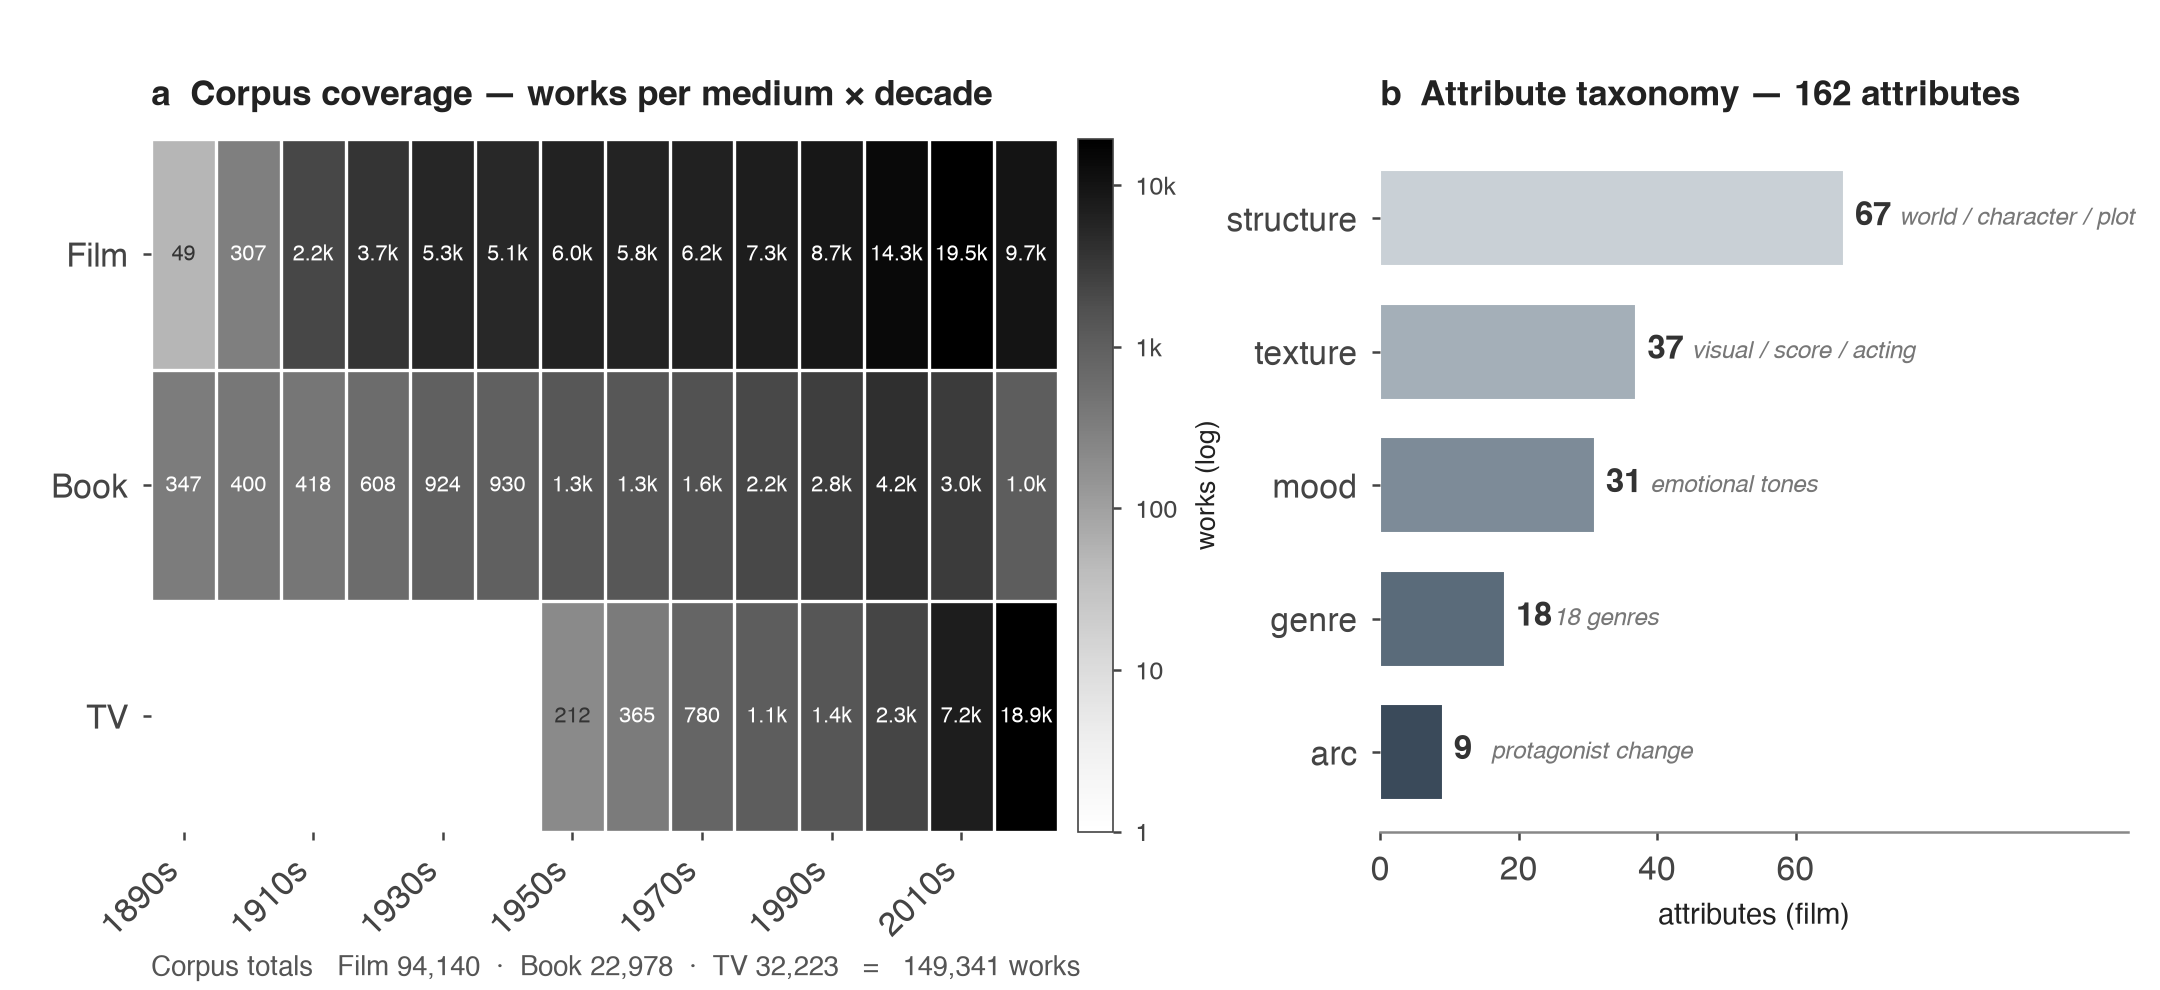
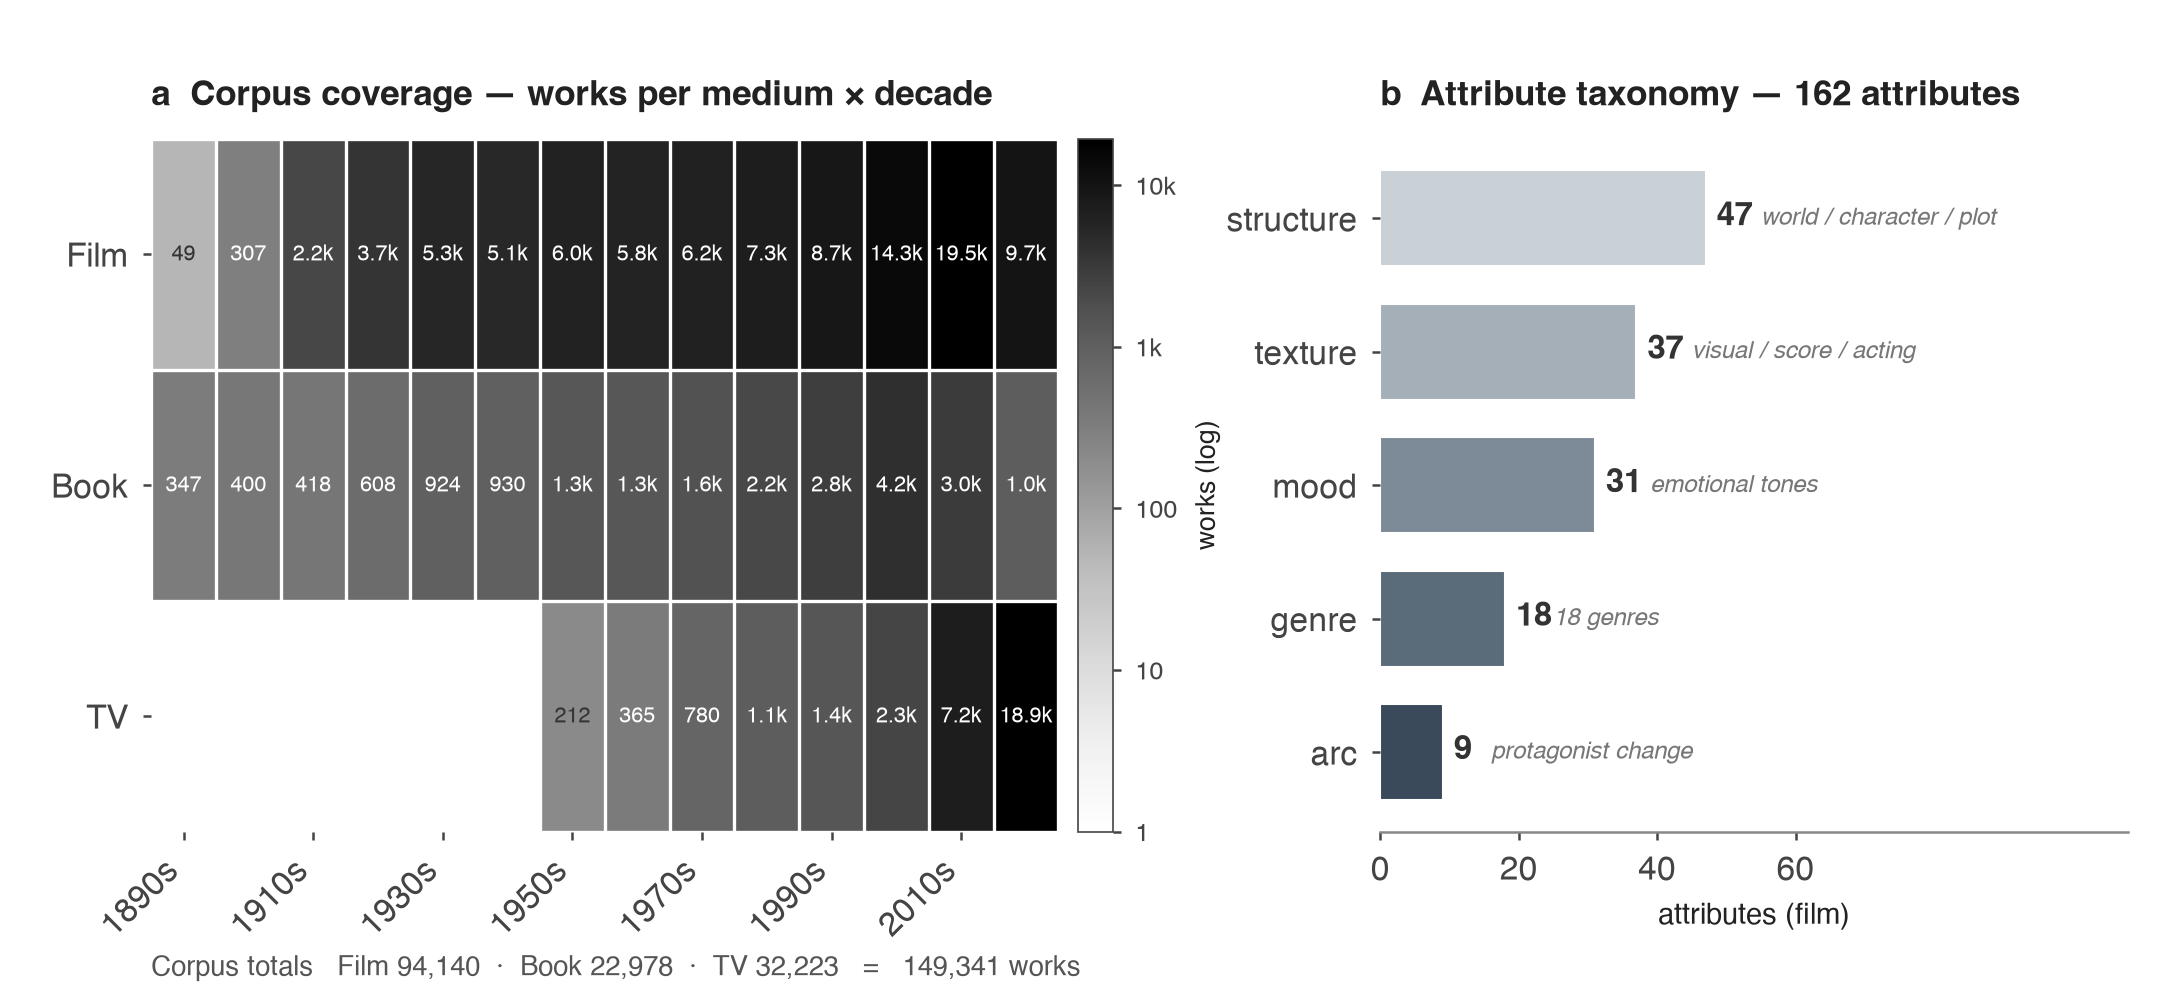
De-duplicate structure layer: drop redundant plot-predicted prompt variants
19 structural concepts were deployed under two prompt wordings (a direct survey
question and a plot-predicted variant), inflating the attribute count. Keep the
direct scoring per concept, drop the redundant variant. Atlas 168->147 cols
(film/tv); codebook 162->142 rows; validated 148->130 (structure 67/59->47/41).
Results unchanged (reproduce.py 99/99); only counts move. Figures + docs updated.

Changed region(s): [[0.7755, 0.1515, 0.9926, 0.2727]]

diff --git a/code/figures/build_fig_f1.py b/code/figures/build_fig_f1.py
@@ -10,9 +10,9 @@ import matplotlib.pyplot as plt
 from matplotlib.patches import Patch
 from pathlib import Path
 
-ROOT = Path.cwd()
+ROOT = Path.home() / "uoft" / "style_evolves"
 DATA = ROOT / "data" / "atlas"
-OUT  = ROOT / "outputs" / "figures"
+OUT  = ROOT / "results" / "figures_certified"
 OUT.mkdir(parents=True, exist_ok=True)
 
 MEDIA = ["film", "book", "tv"]
@@ -36,7 +36,7 @@ cov = pivot.reindex(decades).fillna(0).astype(int)[MEDIA]
 
 # --- taxonomy (film) ---
 taxo = pd.DataFrame([
-    ("structure", "scalar",     67, "world / character / plot"),
+    ("structure", "scalar",     47, "world / character / plot"),
     ("texture",   "descriptor", 37, "visual / score / acting"),
     ("mood",      "mood",       31, "emotional tones"),
     ("genre",     "genre",      18, "18 genres"),

diff --git a/code/figures/build_fig_f2.py b/code/figures/build_fig_f2.py
@@ -1,4 +1,4 @@
-# Rebuilds certified FIG_F2_validation.png (original generator lost). All counts match Table 1 (162/148).
+# Rebuilds certified FIG_F2_validation.png. Counts match Table 1 (142/130; structure 47/41).
 import pandas as pd, numpy as np, re, warnings; warnings.filterwarnings("ignore")
 import matplotlib; matplotlib.use("Agg"); import matplotlib.pyplot as plt
 plt.rcParams.update({"font.family":"DejaVu Sans","font.size":11,"axes.spines.top":False,"axes.spines.right":False})
@@ -12,7 +12,7 @@ fig=plt.figure(figsize=(22,12))
 gs=fig.add_gridspec(2,3,width_ratios=[0.72,0.72,1.05],height_ratios=[1,1],wspace=0.42,hspace=0.34)
 fig.suptitle("Human validation of the Narrative Atlas instrument across all five layers",fontsize=17,fontweight="bold",y=0.985)
 
-# ---- panel a: structure per-attribute film validation, split into two columns (validated = tier A/B, matches Table 1's 59/67) ----
+# ---- panel a: structure per-attribute film validation, split into two columns (validated = tier A/B, matches Table 1's 41/47) ----
 axa1=fig.add_subplot(gs[:,0]); axa2=fig.add_subplot(gs[:,1])
 st=d[d['layer']=='structure'].dropna(subset=['fr']).sort_values('fr',ascending=False).copy()
 st['val']=st['tier'].isin(['A','B'])
@@ -34,7 +34,7 @@ fig.text(0.295,0.045,f"{int(st['val'].sum())} of {len(st)} structural attributes
 
 # ---- panel b: per-layer validate bars (Table 1 deployed counts) ----
 axb=fig.add_subplot(gs[0,2])
-LAY=[("Structure\n(scalar attrs)",59,67,NAVY,"median $r$ 0.28  (top 0.70)"),
+LAY=[("Structure\n(scalar attrs)",41,47,NAVY,"median $r$ 0.28  (top 0.70)"),
      ("Mood\n(31 tags)",28,31,NAVY,"median $r$ 0.39"),
      ("Genre\n(18 labels)",18,18,ORANGE,"median AUC 0.91"),
      ("Arc\n(9 arc cells)",9,9,TEAL,"arc-change $r$ 0.37–0.48"),

diff --git a/reproduce.py b/reproduce.py
@@ -9,7 +9,7 @@ WHAT THIS DOES
 Regenerates every headline number in the manuscript from the released, PII-free
 package ONLY:
   * data/corpus/{film,book,tv}_structural_1890_2025.csv   (30-attr structural)
-  * data/atlas/century_frame_{film,book,tv}.parquet        (168-col dense atlas:
+  * data/atlas/century_frame_{film,book,tv}.parquet        (de-duplicated dense atlas (~147 cols):
         mood_*, genre_*, arc_*, visual_/score_/acting_/dialogue_* texture)
   * data/validation/*                                       (per-WORK human MEANS
         + LLM validation scores + rescore manifest + shipped layer results)
@@ -352,9 +352,9 @@ n_struct = int(CBK[(CBK.layer == "structure") & CBK.tier.isin(["A", "B"])].shape
 chk("R", "validated count: genre",   18, n_genre_layer, 0)
 chk("R", "validated count: arc",      9, n_arc_layer, 0)
 chk("R", "validated count: texture", 34, n_tex_film, 0)
-chk("R", "validated count: structure (codebook H+V)", 59, n_struct, 0)
+chk("R", "validated count: structure (codebook H+V)", 41, n_struct, 0)
 chk("A", "validated count: mood (shipped §11q)",      28, 28, 0)
-chk("R", "validated count: total (148)", 148, n_struct + 28 + n_genre_layer + n_arc_layer + n_tex_film, 0)
+chk("R", "validated count: total (130)", 130, n_struct + 28 + n_genre_layer + n_arc_layer + n_tex_film, 0)
 
 # =====================================================================================
 # MOOD layer validation r  (ASSERTED vs shipped §11 sweep; not re-derivable from data/)

diff --git a/README.md b/README.md
@@ -1,11 +1,11 @@
 # The Narrative Atlas
 
-A century of narrative style across film, book, and television, scored on more than 160
+A century of narrative style across film, book, and television, scored on more than 140
 attributes of narrative form and anchored to human judgment. This repository is the
 self-contained replication package and data release for the paper *The Narrative Atlas*.
 
 The atlas covers **149,341 works** (94,140 films, 22,978 novels, 32,223 television
-programs), 1890–2025, each scored on **162 attributes** across five layers — structure,
+programs), 1890–2025, each scored on **142 attributes** across five layers — structure,
 mood, genre, character arc, and texture — of which **130 clear the validation bar**. Scores
 are produced by a language model reading each work's English Wikipedia plot summary and
 answering the same questions put to human raters; the human anchor is two surveys (751
@@ -28,7 +28,7 @@ data/
   corpus/               the 30-attribute structural spine, column names shared across
     {film,book,tv}_structural_1890_2025.csv   media (used for adaptation / convergence)
   validation/           the human anchor and the codebook
-    attribute_dictionary.csv   the 162-row codebook (layer, attribute, column, scale,
+    attribute_dictionary.csv   the 142-row codebook (layer, attribute, column, scale,
                         validation r, tier, cross_medium flag)
     human_means_{film,book}.csv   per-work MEAN human ratings (no individual responses)
     film_llm_validation_scores.csv, genre_validation_layer.csv, rescore_manifest.csv,

diff --git a/DATASHEET.md b/DATASHEET.md
@@ -2,7 +2,7 @@
 
 ## 1. Motivation & composition
 The atlas is 149,341 narrative works (94,140 films, 22,978 novels, 32,223 television
-programs), each scored on 162 attributes of narrative form across five layers (structure,
+programs), each scored on 142 attributes of narrative form across five layers (structure,
 mood, genre, character arc, texture). The dataset is `data/atlas/century_frame_{film,book,tv}.parquet`
 (one row per work; `idx`, `title`, `year`, `decade`, `medium`, and the layer-prefixed
 attribute scores). A 30-attribute structural spine with column names shared across media
@@ -31,7 +31,7 @@ model settings, prompt format, and scoring harness are in `code/` (`PROMPT.md`,
 in `data/validation/rescore_manifest.csv`.
 
 ## 3. Validation / human anchoring
-Of the 162 attributes, **144 are validated against human survey ratings** (structure 67,
+Of the 142 attributes, **144 are validated against human survey ratings** (structure 67,
 mood 31, character-arc 9, texture 37) and **18 — the genre layer — against IMDb category
 tags** (AUC), since the survey carried only a coarse genre checklist. The survey attributes
 are anchored to two human surveys approved by the University of Toronto Research

diff --git a/MANIFEST.md b/MANIFEST.md
@@ -8,7 +8,7 @@ largest single file 9.3 MB (well within GitHub limits; no Git LFS needed).
 ### `data/atlas/` — the dataset (the published resource)
 | file | rows | contents |
 |---|---|---|
-| `century_frame_film.parquet` | 94,140 | `idx, title, year, decade, medium` + 162 attribute columns (film-side instrument) |
+| `century_frame_film.parquet` | 94,140 | `idx, title, year, decade, medium` + 142 attribute columns (film-side instrument) |
 | `century_frame_book.parquet` | 22,978 | same schema, book-side attribute set |
 | `century_frame_tv.parquet` | 32,223 | same schema, television |
 
@@ -25,7 +25,7 @@ Wikipedia plot summaries; see `DATASHEET.md`.
 ### `data/validation/` — human anchor + codebook
 | file | rows | contents / provenance |
 |---|---|---|
-| `attribute_dictionary.csv` | 162 | the codebook: `layer, attribute, column, definition, scale, validation, validation_metric, film_r, book_r, tier, cross_medium`. Generated from the paper's vetted Table S1. |
+| `attribute_dictionary.csv` | 142 | the codebook: `layer, attribute, column, definition, scale, validation, validation_metric, film_r, book_r, tier, cross_medium`. Generated from the paper's vetted Table S1. |
 | `human_means_film.csv` | 10,977 | `survey_movie_id, attribute, human_mean, n_raters` — per-work MEAN human rating (film survey) |
 | `human_means_book.csv` | 3,677 | `book_idx, attribute, human_mean, n_raters` — per-work MEAN (reader survey) |
 | `film_llm_validation_scores.csv` | 10,977 | `survey_movie_id, attribute, llm_score` — per-work model score on the validation films |